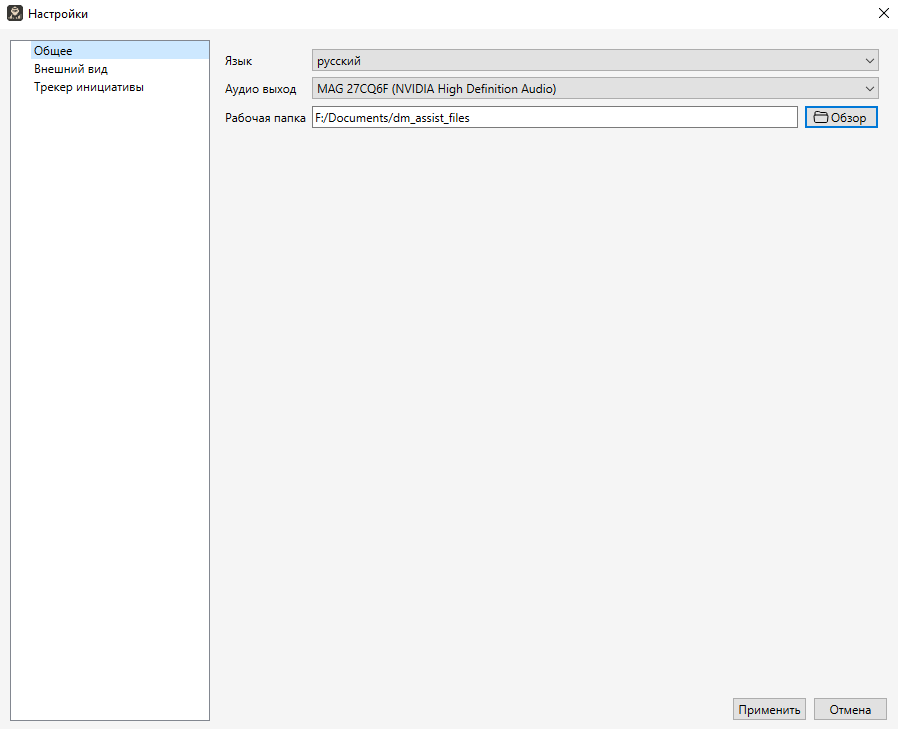
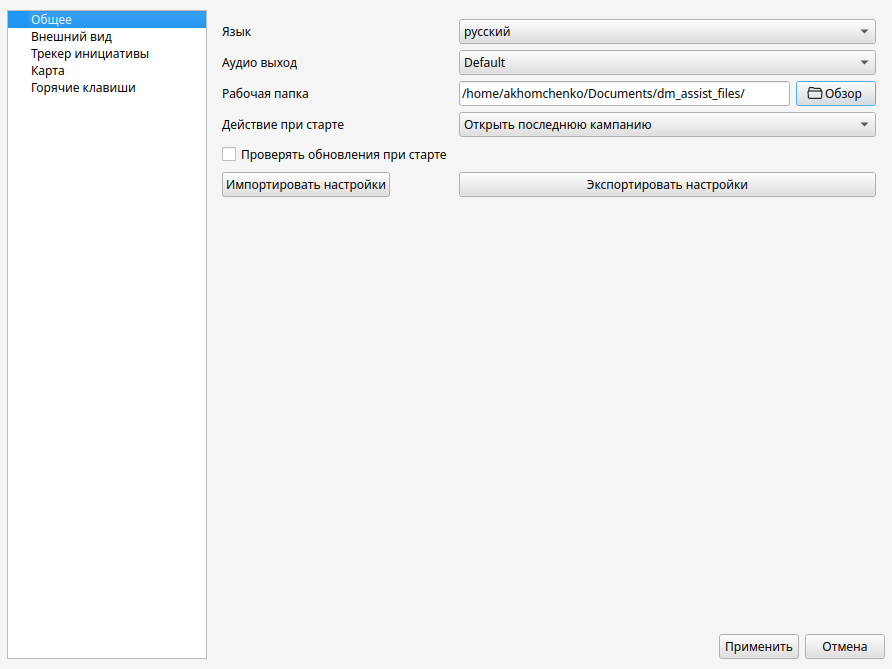
Обновлен readme

diff --git a/README.md b/README.md
@@ -48,13 +48,14 @@ DM helper.
 Используя [виртуальный кабель](https://vb-audio.com/Cable/) можно подключить аудиовыход к микрофону discord и 
 транслировать музыку при онлайн-игре.
 - **Рабочая папка** определяет, в какой папке будут храниться временные файлы, необходимые для работы программы.
+- **Действие при старте** определяет поведение приложения при запуске
+- **Проверять обновления при старте** - если включено - приложение будет проверять обновления при запуске и покажет, если есть более актуальная версия
 
 ### Внешний вид
 ![settings-appearance.png](illustrations/settings-appearance.png)
 - **Тема** определяет тему приложения. По нажатию кнопки _обзор_ можно выбрать новую, не предустановленную тему в формате 
 файла xml. Файл будет скопирован в папку программы и в дальнейшем тема будет доступна из меню настроек.
 - **Стиль** определяет стиль отрисовки графических элементов интерфейса. **_Рекомендуемый стиль - fusion_**
-- **Режим имен токенов** и **Размер шрифта токенов** отвечают за режим и параметры отрисовки подписей с именами к токенам персонажей на карте (подробнее в разделе [Токены](#использование-токенов))
 
 ### Трекер инициативы
 ![settings-tracker.png](illustrations/settings-tracker.png)
@@ -63,6 +64,16 @@ DM helper.
 - **Режим отображения хитов** - определяет, как будет отображаться здоровье персонажей в окне, предназначенном для игроков
 [подробнее](#режимы-отображения-hp)
 - **Автоматические броски инициативы** - при добавлении персонажа в энкаунтер автоматически устанавливается случайное значения инициативы
+- **Автоматическая сортировка** - если включена, то скрывает кнопку ручной сортировки и обновляет трекер при изменении значения в поле инициативы у любого из персонажей
+- **Цвет активного персонажа** - Можно задать свой или же использовать включенный в палитру
+
+### Карта
+![settings-map.png](illustrations/settings-map.png)
+- *Режим имен токенов** и **Размер шрифта токенов** отвечают за режим и параметры отрисовки подписей с именами к токенам персонажей на карте (подробнее в разделе [Токены](#использование-токенов))
+
+### Горячие клавиши
+![settings-hotkeys.png](illustrations/settings-hotkeys.png)
+- Определяет горячие клавиши для инструментов карты
 
 ## Музыка
 Нажмите <img alt="play.png" height="20" src="static/play.svg" width="20"/> чтобы запустить проигрывание. Так же можно использовать шорткат ```ctrl + номер_плейлиста```. Номер для 
@@ -214,7 +225,6 @@ DM helper.
 Для удаления формы нажмите ПКМ по форме.
 
 ### Кисть
-
 ![brush.png](illustrations/brush.png)
 
 Инструмент _кисть_ <img src="static/brush.svg" width="20"> позволяет свободно рисовать по карте.
@@ -224,6 +234,11 @@ DM helper.
 Для регулировки размера кисти используйте ```ctrl + SCROLL``` аналогично инструменту тумана.
 
 Для удаления нажмите ПКМ по нарисованной линии. 
+
+### Лассо
+Инструмент _лассо_ <img src="static/lasso.svg" width="20"> позволяет рисовать замкнутые контуры произвольной формы. После отпускания ЛКМ контур замыкается автоматически.
+
+Цвет или текстура лассо синхронизированы с остальными инструментами. 
 
 ### Карта высот
 ![height.png](illustrations/height.png)
